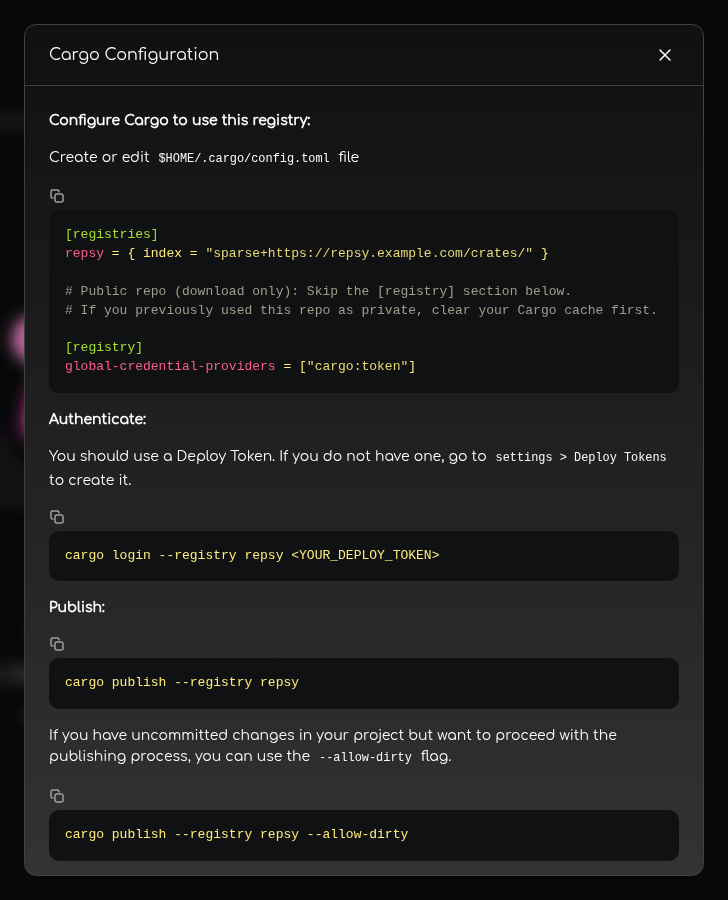
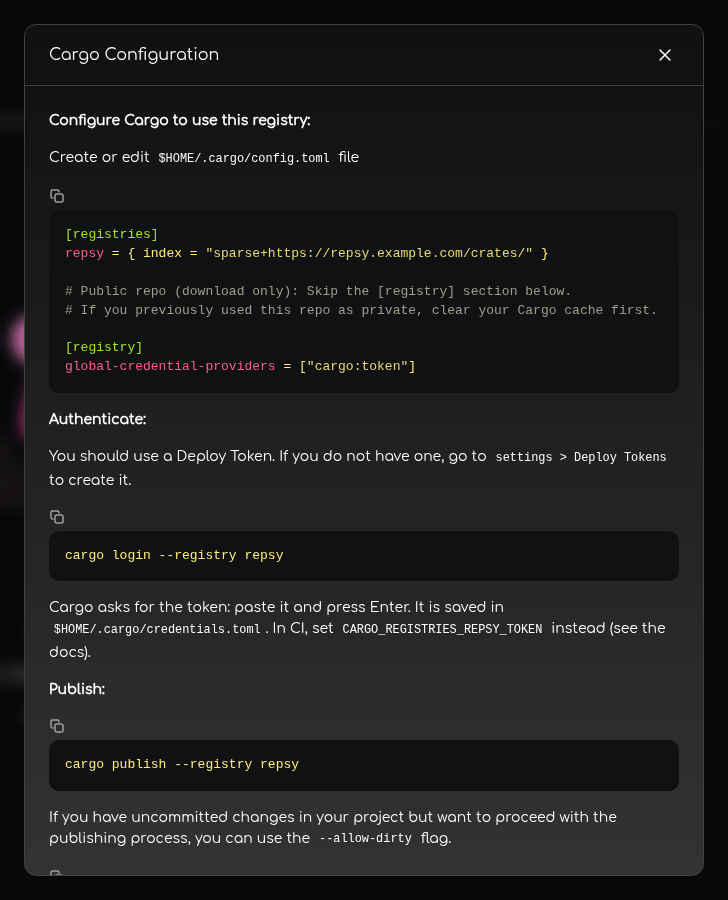
RPS-1599: Teach the stdin form of cargo login in the Cargo pages and refresh the dialog screenshot (#79)
The Configure dialog of a Cargo repository now shows `cargo login --registry repsy` and Cargo asks for
the token (RPS-1598). The shared Cargo publishing page and the deploy token table still taught
`cargo login --registry repsy <token>`, which recent Cargo warns about (the token lands in shell
history). They now show the stdin form, say why the argument form is discouraged and, on Open Source,
point CI to CARGO_REGISTRIES_REPSY_TOKEN. The "the dialog shows the older form" sentence of the Open
Source Cargo page is gone, and configure-dialog.png is regenerated with tools/screenshots.

Changed region(s): [[0.0604, 0.6533, 0.9368, 0.9644], [0.4231, 0.5911, 0.5137, 0.6222], [0.544, 0.5911, 0.6044, 0.6222]]

diff --git a/shared/getting-started/creating-a-deploy-token/_index.md b/shared/getting-started/creating-a-deploy-token/_index.md
@@ -86,7 +86,7 @@ repository, Repsy checks the pair as an account username and password instead.
 | [npm](../../npm/publishing-an-npm-package/) | The prompts of `npm login` | Any value | Token |
 | [PyPI](../../pypi/publishing-a-pypi-package/) | The `[repsy]` section of `~/.pypirc` | Any value | Token |
 | [Docker](../../docker/publishing-a-docker-image/) | The prompts of `docker login repo.repsy.io` | Any value | Token |
-| [Cargo](../../cargo/publishing-a-cargo-crate/) | `cargo login --registry repsy <token>` | Not used | Token |
+| [Cargo](../../cargo/publishing-a-cargo-crate/) | The prompt of `cargo login --registry repsy` | Not used | Token |
 | [Go](../../go/installing-a-go-module/) | The `machine repo.repsy.io` entry in `~/.netrc` | Any value | Token |
 | [Helm](../../helm/publishing-a-helm-chart/) | The `--password` option of `helm repo add` or `helm registry login` | Any value | Token |
 | [NuGet](../../nuget/publishing-a-nuget-package/) | The `ClearTextPassword` value in your user-level `NuGet.Config` | Any value | Token |
@@ -100,7 +100,7 @@ repository, Repsy checks the pair as an account username and password instead.
 | [npm](../../npm/publishing-an-npm-package/) | The prompts of `npm login` | Any value | Token |
 | [PyPI](../../pypi/publishing-a-pypi-package/) | The repository section of `~/.pypirc` | Any value | Token |
 | [Docker](../../docker/publishing-a-docker-image/) | The prompts of `docker login <your-repsy-host>` | Any value | Token |
-| [Cargo](../../cargo/publishing-a-cargo-crate/) | `cargo login --registry repsy <token>` | Not used | Token |
+| [Cargo](../../cargo/publishing-a-cargo-crate/) | The prompt of `cargo login --registry repsy` | Not used | Token |
 | [Go](../../go/using-go-modules-from-repsy/#give-the-go-command-your-credentials) | The `machine <your-repsy-host>` entry in `~/.netrc`, with the port when the address has one, for example `machine localhost:9443`; the address must use `https://` because the `go` command refuses to send credentials over plain HTTP | Any value | Token |
 | [Helm](../../helm/publishing-a-helm-chart/) | The `--password` option of `helm repo add` or `helm registry login` | Any value | Token |
 | [NuGet](../../nuget/publishing-a-nuget-package/) | The `ClearTextPassword` value in your user-level `NuGet.Config` | Any value | Token |

diff --git a/content-os/cargo/publishing-and-using-crates-with-cargo/_index.md b/content-os/cargo/publishing-and-using-crates-with-cargo/_index.md
@@ -50,7 +50,7 @@ Store the token for the registry:
 cargo login --registry repsy
 ```
 
-Cargo asks for the token: paste it and press Enter. Cargo saves it in `$CARGO_HOME/credentials.toml`, by default `$HOME/.cargo/credentials.toml`, in plain text and readable by your user only. The dialog of the web UI shows the older form `cargo login --registry repsy <your-deploy-token>`. It still works, but recent Cargo versions warn that a token on the command line is deprecated: it lands in your shell history.
+Cargo asks for the token: paste it and press Enter. Cargo saves it in `$CARGO_HOME/credentials.toml`, by default `$HOME/.cargo/credentials.toml`, in plain text and readable by your user only. This is what the dialog of the web UI shows too. Do not put the token on the command line (`cargo login --registry repsy <your-deploy-token>`): it still works, but recent Cargo versions warn that it is deprecated, because the token lands in your shell history.
 
 A public repository can be read without a token, so you only need to sign in to publish to it. To give a token to one command without saving it, set the environment variable instead, see [Cargo in CI](../cargo-in-ci/).
 

diff --git a/shared/cargo/publishing-a-cargo-crate/_index.md b/shared/cargo/publishing-a-cargo-crate/_index.md
@@ -42,8 +42,10 @@ In order to successfully publish crates to your `cargo` registry, you must authe
 To authenticate, run:
 
 ```bash
-cargo login --registry repsy <your-deploy-token>
+cargo login --registry repsy
 ```
+
+Cargo asks for the token: paste it and press Enter. Cargo saves it in `$HOME/.cargo/credentials.toml`. Do not put the token on the command line (`cargo login --registry repsy <your-deploy-token>`): it still works, but recent Cargo versions warn that it is deprecated, because the token lands in your shell history.{{< product "os" >}} In CI, set the `CARGO_REGISTRIES_REPSY_TOKEN` environment variable instead of running `cargo login`, see [Cargo in CI](../cargo-in-ci/).{{< /product >}}
 
 If this command is executed successfully, you will be authenticated and ready to publish your crate. As a final step, please run:
 
